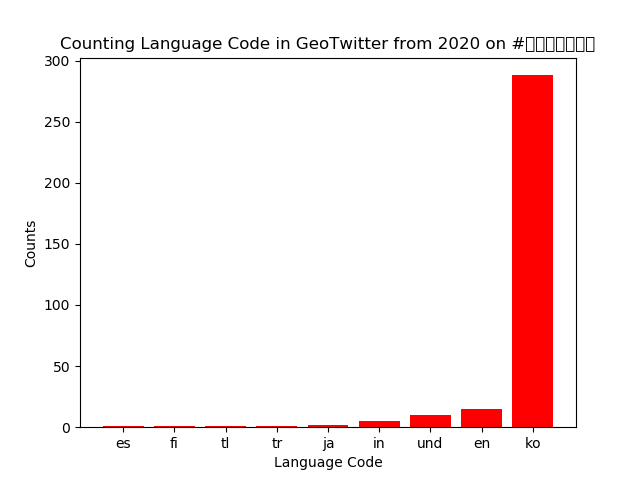
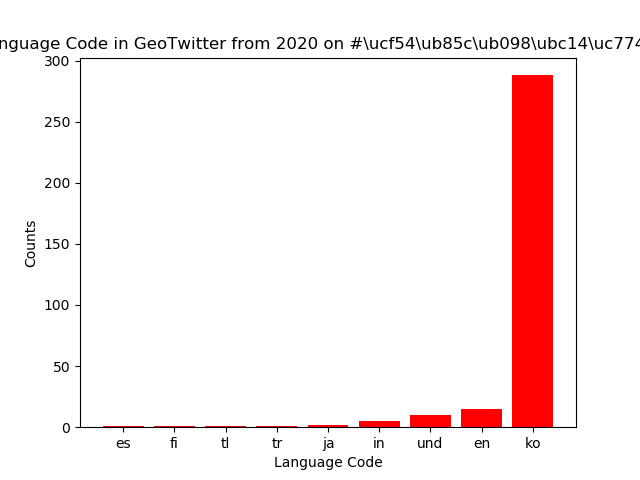
test

Changed region(s): [[0.0, 0.0625, 1.0, 0.125]]

diff --git a/src/visualize.py b/src/visualize.py
@@ -56,18 +56,18 @@ plt.bar(temp, top_10_val, color='red', tick_label=top_10_key)
 print(args.input_path)
 print(args.key)
 
+temp = args.key
+unicode_key = temp.encode('unicode_escape').decode('utf-8')
+
 #Change variable based on file
 if re.search('.lang', args.input_path):
-    plot_title = "Counting Language Code in GeoTwitter from 2020 on" + ' ' +  args.key
+    plot_title = "Counting Language Code in GeoTwitter from 2020 on" + ' ' + unicode_key 
     x_label = "Language Code"
     save_file_name = "lang_" + args.key + ".png"
 else:
-    plot_title = "Counting Country Code in GeoTwitter from 2020 on" + ' ' +  args.key
+    plot_title = "Counting Country Code in GeoTwitter from 2020 on" + ' ' + unicode_key 
     x_label = "Country Code"
     save_file_name = "country_" + args.key + ".png"
-
-
-
 
 plt.title(plot_title)
 plt.xlabel(x_label)
